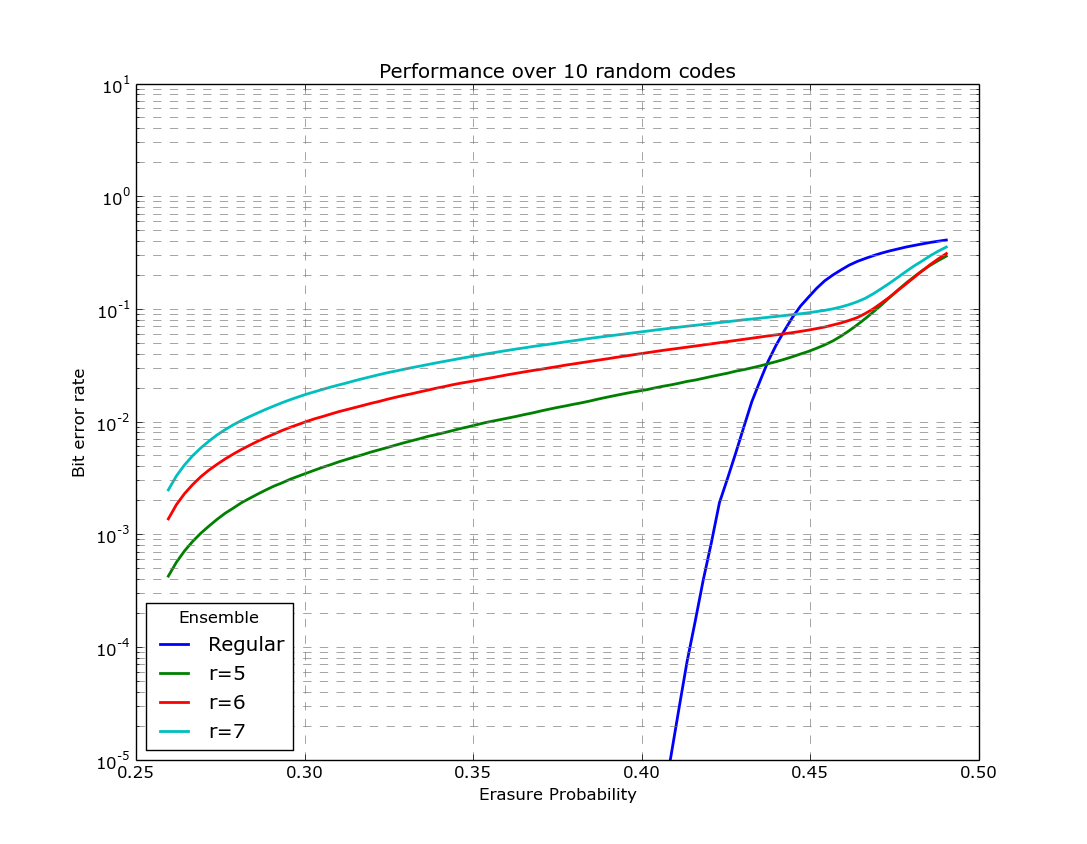
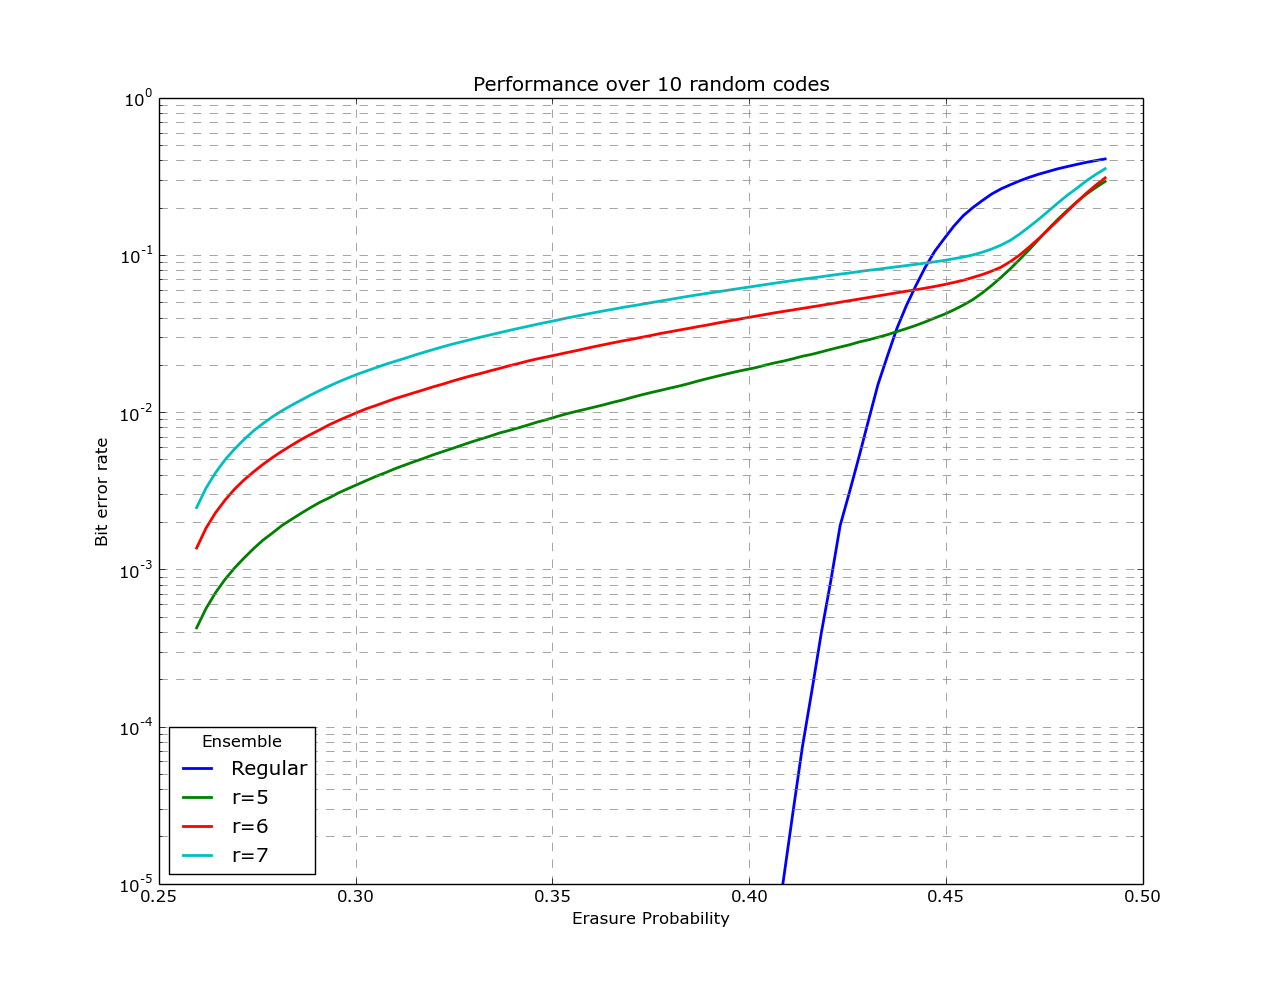
Updating plot script and plot for ensemble averages.

diff --git a/ps3/plotResults.py b/ps3/plotResults.py
@@ -54,5 +54,5 @@ plot_file("results/avg_reg.data", label="Regular")
 plot_file("results/r5_avg.data", label="r=5")
 plot_file("results/r6_avg.data", label="r=6")
 plot_file("results/r7_avg.data", label="r=7")
-plt.ylim([10E-6,10E0])
+plt.ylim([10E-6,1E0])
 plot_show(name="Performance over 10 random codes", x_label="Erasure Probability", legend="Ensemble")
